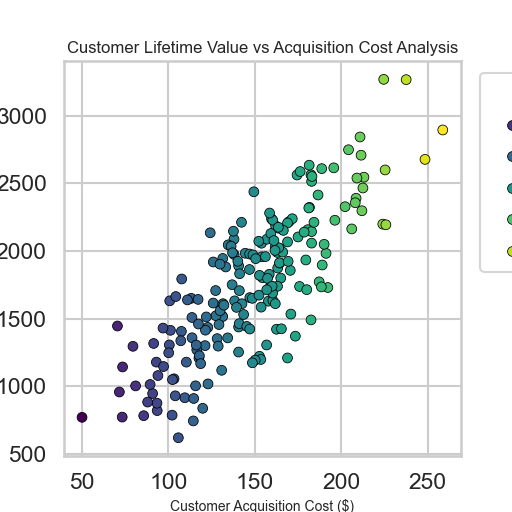
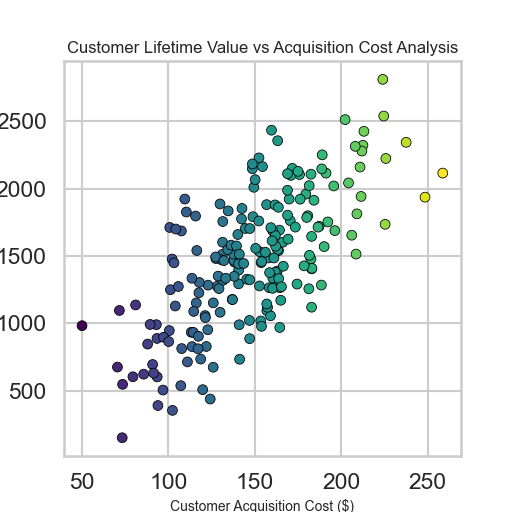
Add files via upload
2nd updated

diff --git a/chart.py b/chart.py
@@ -12,7 +12,7 @@ np.random.seed(42)
 cac = np.random.normal(loc=150, scale=40, size=200).clip(50, 300)
 
 # Customer Lifetime Value (CLV), correlated with CAC
-clv = cac * np.random.uniform(8, 12) + np.random.normal(0, 300, 200)
+clv = cac * np.random.uniform(8, 12, size=200) + np.random.normal(0, 300, 200)
 
 data = pd.DataFrame({
     "Acquisition Cost ($)": cac,
@@ -28,8 +28,7 @@ sns.set_context("talk")
 # ----------------------------
 # Create EXACT 512x512 Figure
 # ----------------------------
-plt.figure(figsize=(512/100, 512/100), dpi=100)
-# 512 px / 100 dpi = 5.12 inches → ensures exact 512x512 output
+fig, ax = plt.subplots(figsize=(5.12, 5.12), dpi=100)
 
 sns.scatterplot(
     data=data,
@@ -38,17 +37,17 @@ sns.scatterplot(
     hue="Acquisition Cost ($)",
     palette="viridis",
     s=50,
-    edgecolor="black"
+    edgecolor="black",
+    ax=ax,
+    legend=False  # Remove legend to maintain exact size
 )
 
-plt.title("Customer Lifetime Value vs Acquisition Cost Analysis", fontsize=12)
-plt.xlabel("Customer Acquisition Cost ($)", fontsize=10)
-plt.ylabel("Customer Lifetime Value ($)", fontsize=10)
-
-plt.legend(title="CAC", bbox_to_anchor=(1.02, 1), loc='upper left')
+ax.set_title("Customer Lifetime Value vs Acquisition Cost Analysis", fontsize=12)
+ax.set_xlabel("Customer Acquisition Cost ($)", fontsize=10)
+ax.set_ylabel("Customer Lifetime Value ($)", fontsize=10)
 
 # ----------------------------
 # Save EXACT 512x512 PNG
 # ----------------------------
-plt.savefig("chart.png", dpi=100)   # Must NOT use bbox_inches='tight'
+plt.savefig("chart.png", dpi=100)
 plt.close()
